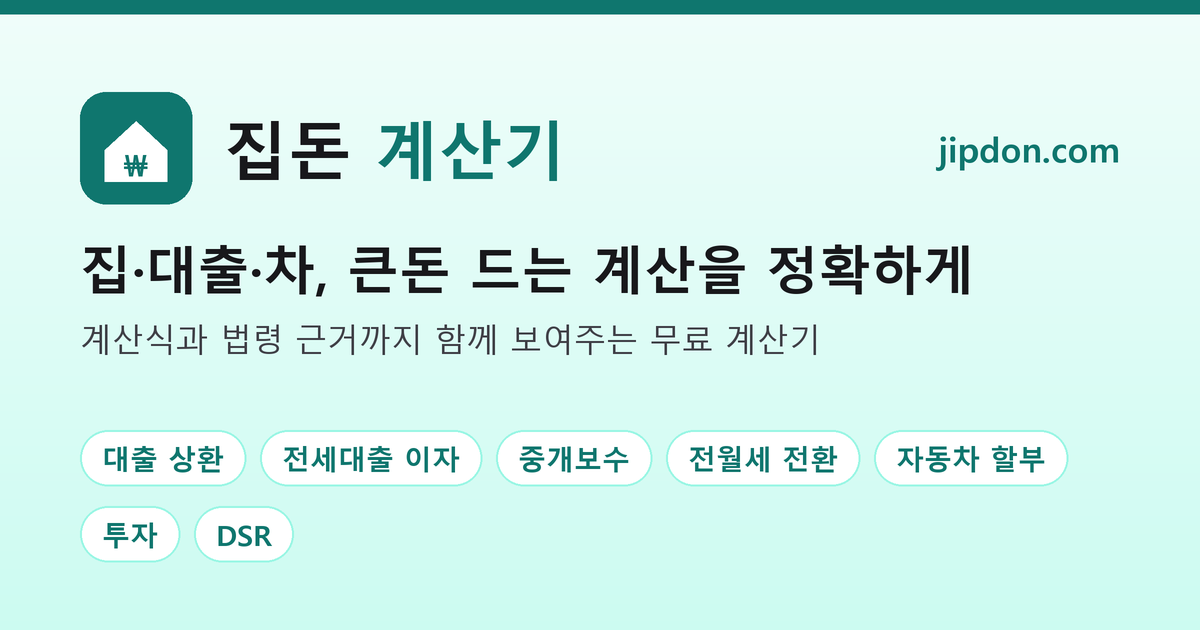
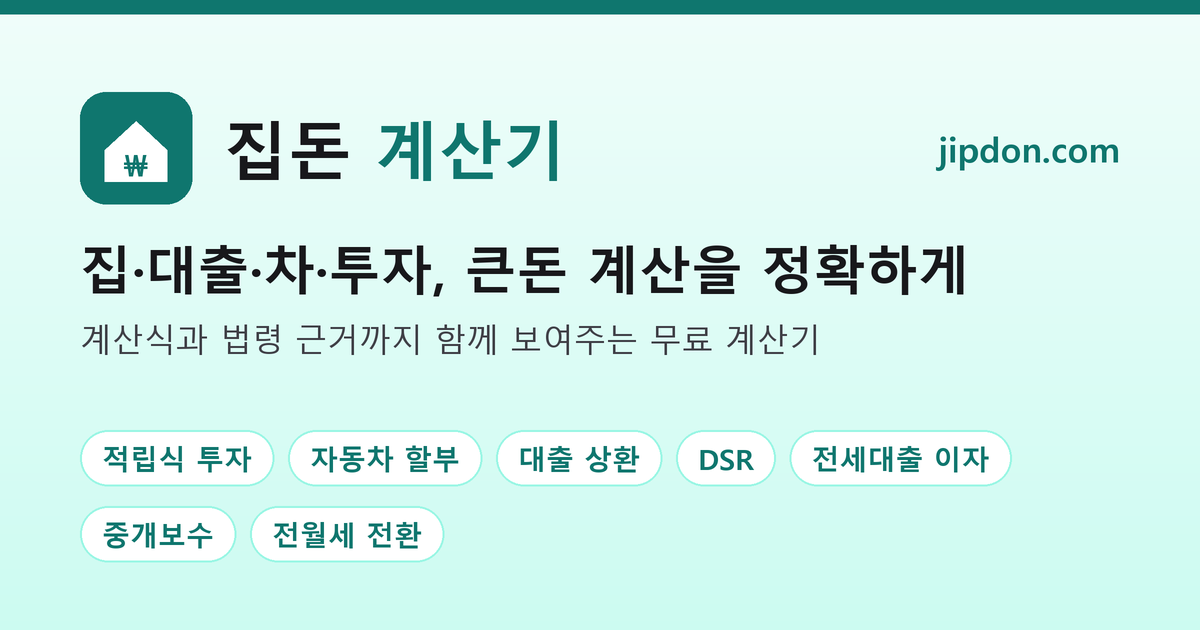
feat: 메인 계산기를 세 묶음으로, 문구에 투자 포함 (#8)
- 메인 계산기를 투자·자동차 / 대출 / 집 계약 묶음으로 나누고 투자·자동차를 맨 위로
- 계산기 순서(바닥글·다른 계산기 포함)도 같은 순서로 정리
- 메인 문구: '집·대출·차·투자, 큰돈 계산을 정확하게', '공인중개사가 만든' 표현 제거 (소개 페이지는 유지)
- 공유 미리보기 이미지를 새 문구·순서로 다시 생성

Changed region(s): [[0.0617, 0.6635, 0.4008, 0.9048], [0.2467, 0.3921, 0.8325, 0.4825], [0.4317, 0.6635, 0.8942, 0.7841]]

diff --git a/src/data/tools.ts b/src/data/tools.ts
@@ -6,16 +6,27 @@ export interface Tool {
 	name: string;
 	desc: string;
 	icon: ToolIconName;
+	group: ToolGroupId;
 }
 
+/** 메인 화면에서 계산기를 나눠 보여주는 묶음 (이 순서대로 표시) */
+export const TOOL_GROUPS = [
+	{ id: 'grow', name: '투자·자동차' },
+	{ id: 'loan', name: '대출' },
+	{ id: 'home', name: '집 계약' },
+] as const;
+
+export type ToolGroupId = (typeof TOOL_GROUPS)[number]['id'];
+
+// 배열 순서 = 메인·바닥글·"다른 계산기"에 보이는 순서
 export const TOOLS: Tool[] = [
-	{ href: '/loan/', name: '대출 상환 계산기', desc: '원리금균등·원금균등·만기일시 월 상환액과 총 이자 비교', icon: 'loan' },
-	{ href: '/jeonse-loan/', name: '전세대출 이자 계산기', desc: '보증금과 대출 비율로 매달 내는 이자와 보증료 계산', icon: 'house' },
-	{ href: '/brokerage-fee/', name: '중개보수(복비) 계산기', desc: '매매·전세·월세 법정 상한 요율과 한도로 계산', icon: 'receipt' },
-	{ href: '/rent-conversion/', name: '전월세 전환 계산기', desc: '보증금 ↔ 월세 바꿀 때 금액과 법정 상한 전환율', icon: 'swap' },
-	{ href: '/car-installment/', name: '자동차 할부 계산기', desc: '선수금·금리·기간별 월 납입금과 총 이자', icon: 'car' },
-	{ href: '/invest/', name: '적립식·거치식 투자 계산기', desc: 'S&P 500·나스닥 100 과거 10년 재현, 목표 금액 월 적립액', icon: 'chart' },
-	{ href: '/dsr/', name: 'DSR 계산기', desc: '소득 대비 원리금 비율과 규제 한도 내 최대 대출액', icon: 'pie' },
+	{ href: '/invest/', name: '적립식·거치식 투자 계산기', desc: 'S&P 500·나스닥 100 과거 10년 재현, 목표 금액 월 적립액', icon: 'chart', group: 'grow' },
+	{ href: '/car-installment/', name: '자동차 할부 계산기', desc: '선수금·금리·기간별 월 납입금과 총 이자', icon: 'car', group: 'grow' },
+	{ href: '/loan/', name: '대출 상환 계산기', desc: '원리금균등·원금균등·만기일시 월 상환액과 총 이자 비교', icon: 'loan', group: 'loan' },
+	{ href: '/dsr/', name: 'DSR 계산기', desc: '소득 대비 원리금 비율과 규제 한도 내 최대 대출액', icon: 'pie', group: 'loan' },
+	{ href: '/jeonse-loan/', name: '전세대출 이자 계산기', desc: '보증금과 대출 비율로 매달 내는 이자와 보증료 계산', icon: 'house', group: 'loan' },
+	{ href: '/brokerage-fee/', name: '중개보수(복비) 계산기', desc: '매매·전세·월세 법정 상한 요율과 한도로 계산', icon: 'receipt', group: 'home' },
+	{ href: '/rent-conversion/', name: '전월세 전환 계산기', desc: '보증금 ↔ 월세 바꿀 때 금액과 법정 상한 전환율', icon: 'swap', group: 'home' },
 ];
 
 export const PAGES = [

diff --git a/src/styles/global.css b/src/styles/global.css
@@ -542,6 +542,18 @@ a.tool:hover {
 	border-radius: 12px;
 }
 
+/* 메인 계산기 묶음 */
+.tool-group + .tool-group {
+	margin-top: 28px;
+}
+
+.tool-group h2 {
+	margin: 0 0 12px;
+	color: var(--brand);
+	font-size: 1rem;
+	letter-spacing: 0.02em;
+}
+
 /* 메인 첫 영역 */
 .hero {
 	margin: 24px 0 32px;

diff --git a/scripts/make-og-image.py b/scripts/make-og-image.py
@@ -37,11 +37,11 @@ d.text((x0 + s + 32 * S, y0 + s / 2), '집돈 ', font=bold(64), fill=text, ancho
 w = d.textlength('집돈 ', font=bold(64))
 d.text((x0 + s + 32 * S + w, y0 + s / 2), '계산기', font=bold(64), fill=brand, anchor='lm')
 
-d.text((80 * S, 290 * S), '집·대출·차, 큰돈 드는 계산을 정확하게', font=bold(52), fill=text, anchor='ls')
+d.text((80 * S, 290 * S), '집·대출·차·투자, 큰돈 계산을 정확하게', font=bold(52), fill=text, anchor='ls')
 d.text((80 * S, 352 * S), '계산식과 법령 근거까지 함께 보여주는 무료 계산기', font=reg(32), fill=soft, anchor='ls')
 
 # 계산기 칩
-chips = ['대출 상환', '전세대출 이자', '중개보수', '전월세 전환', '자동차 할부', '투자', 'DSR']
+chips = ['적립식 투자', '자동차 할부', '대출 상환', 'DSR', '전세대출 이자', '중개보수', '전월세 전환']
 x, y = 80 * S, 430 * S
 for label in chips:
     tw = d.textlength(label, font=bold(28))
